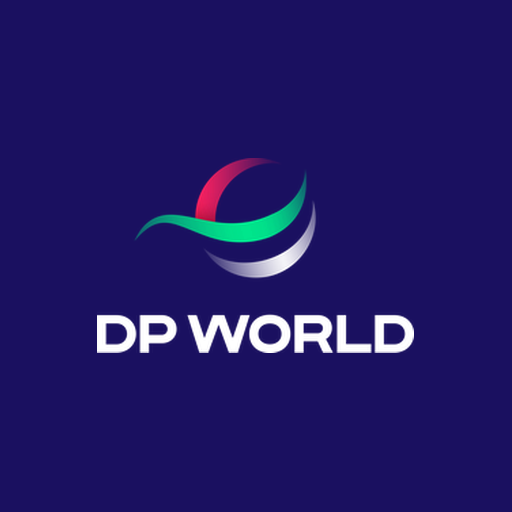
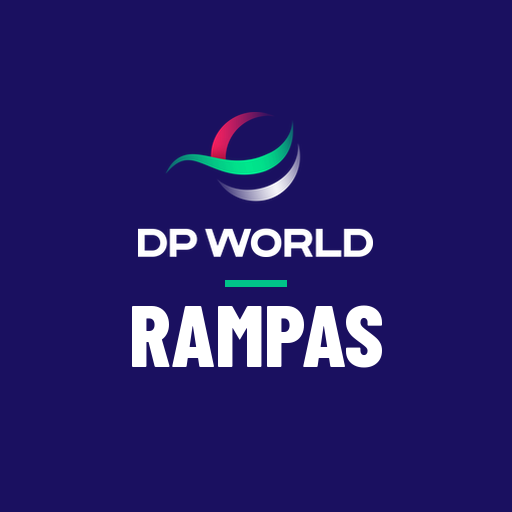
Íconos de app instalada iguales en todas (kit/pwa/generar_iconos.py)
Mismo fondo índigo, logo DP World, línea verde y nombre corto de la app en Barlow Condensed. Se sube la versión de caché del service worker para que tomen los íconos nuevos.

Claude-Session: https://claude.ai/code/session_016HvEN8KWBxrFoq9wy1oQZd

Changed region(s): [[0.25, 0.2188, 0.75, 0.5625], [0.1875, 0.5938, 0.8125, 0.7188]]

diff --git a/sw.js b/sw.js
@@ -2,7 +2,7 @@
 // Permite instalar la app y abrirla sin conexión. La app se pide primero a la red (siempre la versión publicada);
 // la copia guardada solo se usa sin conexión. Supabase nunca se guarda: los datos van siempre al servidor.
 // Al publicar un cambio grande, sube la versión de CACHE.
-const CACHE = 'rampas-v1';
+const CACHE = 'rampas-v2';
 const BASE = ['./', './index.html', './manifest.webmanifest', './dpw/dpw-shell.css', './dpw/dpw-shell.js', './dpw/dpw-escenas.js',
   './dpw/assets/dpworld-logo-fondo-claro.png', './dpw/pwa/icon-192.png', './dpw/pwa/icon-512.png'];
 

diff --git a/.claude/skills/linea-grafica/kit/pwa/generar_iconos.py b/.claude/skills/linea-grafica/kit/pwa/generar_iconos.py
@@ -1,0 +1,60 @@
+"""Íconos de app instalable, iguales para todas las apps DP World Panamá (skill linea-grafica).
+
+Mismo fondo índigo #1A1060, logo DP World en blanco, línea verde #00C389 y el nombre corto de la app
+en Barlow Condensed 800 mayúsculas. Todo dentro de la zona segura de los íconos «maskable».
+
+Uso:  python3 generar_iconos.py "HORAS" carpeta_destino
+Genera icon-512.png, icon-192.png, apple-touch-icon.png (180) y favicon-32.png.
+"""
+import os, sys
+from PIL import Image, ImageDraw, ImageFont
+
+AQUI = os.path.dirname(os.path.abspath(__file__))
+INDIGO, VERDE, BLANCO = (26, 16, 96), (0, 195, 137), (255, 255, 255)
+
+
+def icono(nombre, lado=512):
+    im = Image.new("RGBA", (lado, lado), INDIGO + (255,))
+    d = ImageDraw.Draw(im)
+    logo = Image.open(os.path.join(AQUI, "..", "assets", "dpworld-logo-fondo-oscuro.png")).convert("RGBA")
+    ancho = int(lado * 0.46)
+    logo = logo.resize((ancho, int(logo.height * ancho / logo.width)), Image.LANCZOS)
+    y_logo = int(lado * 0.22)
+    im.alpha_composite(logo, ((lado - ancho) // 2, y_logo))
+    # línea verde bajo el logo
+    y_lin = y_logo + logo.height + int(lado * 0.045)
+    d.rectangle([(lado - lado * 0.12) / 2, y_lin, (lado + lado * 0.12) / 2, y_lin + max(2, lado * 0.012)], fill=VERDE)
+    # nombre corto: el tamaño se ajusta para no salir de la zona segura (72 % del ancho)
+    fuente_ruta = os.path.join(AQUI, "barlow-condensed-800.woff")
+    t = int(lado * 0.17)
+    while True:
+        f = ImageFont.truetype(fuente_ruta, t)
+        caja = d.textbbox((0, 0), nombre, font=f)
+        if caja[2] - caja[0] <= lado * 0.72 or t < 8:
+            break
+        t -= 2
+    w = caja[2] - caja[0]
+    d.text(((lado - w) / 2 - caja[0], y_lin + int(lado * 0.05) - caja[1]), nombre, font=f, fill=BLANCO)
+    return im
+
+
+def generar(nombre, destino):
+    os.makedirs(destino, exist_ok=True)
+    grande = icono(nombre.upper(), 512)
+    grande.convert("RGB").save(os.path.join(destino, "icon-512.png"))
+    for archivo, lado in (("icon-192.png", 192), ("apple-touch-icon.png", 180)):
+        icono(nombre.upper(), lado).convert("RGB").save(os.path.join(destino, archivo))
+    # favicon: solo el fondo índigo y la línea verde con la inicial, legible a 32 px
+    fav = Image.new("RGB", (32, 32), INDIGO)
+    d = ImageDraw.Draw(fav)
+    f = ImageFont.truetype(os.path.join(AQUI, "barlow-condensed-800.woff"), 24)
+    c = d.textbbox((0, 0), nombre[0].upper(), font=f)
+    d.text(((32 - (c[2] - c[0])) / 2 - c[0], 3 - c[1] + 2), nombre[0].upper(), font=f, fill=BLANCO)
+    d.rectangle([9, 27, 23, 28], fill=VERDE)
+    fav.save(os.path.join(destino, "favicon-32.png"))
+
+
+if __name__ == "__main__":
+    if len(sys.argv) != 3:
+        sys.exit(__doc__)
+    generar(sys.argv[1], sys.argv[2])

diff --git a/.claude/skills/linea-grafica/SKILL.md b/.claude/skills/linea-grafica/SKILL.md
@@ -17,7 +17,7 @@ El kit está en `kit/` junto a este archivo:
 | `dpw-mapa.js` | Escena `mapa` (Panamá y rutas a 14 puertos). Solo la cargan las apps que la usan (35 KB). |
 | `plantilla.html` | Ejemplo completo y vista previa: `plantilla.html?escena=patio`, `&login=0`, `&tema=light`. |
 | `assets/` | Logos para fondo claro y oscuro. |
-| `pwa/` | `sw.js` y `manifest.webmanifest` de partida, íconos de la app (192, 512, Apple) y favicon. |
+| `pwa/` | `sw.js` y `manifest.webmanifest` de partida y `generar_iconos.py`, que crea los íconos de la app instalada (512, 192, Apple y favicon). |
 
 En cada app, el kit se copia a una carpeta `dpw/` servida junto al `index.html` (en Next.js: `public/dpw/` para los scripts y logos, y `src/app/dpw-shell.css` importado en `layout.tsx`; la cinta y el menú van como componentes React con las mismas clases, ver `alertas-calidad-app/src/components/AppHeader.tsx` y `Portada.tsx`). Si se cambia el kit, se cambia aquí en HubApp y se vuelve a copiar a cada repo; no se edita la copia de una sola app.
 
@@ -29,6 +29,7 @@ En cada app, el kit se copia a una carpeta `dpw/` servida junto al `index.html` 
 4. **Navegación en el menú desplegable.** Toda sección de la app va como fila del menú lateral (botón de tres rayas a la izquierda de la cinta). Las vistas especiales (Insights, Vista TV, Reportes, Configuración) también. La cinta solo lleva Instalar, Claro/Oscuro, el rol y Salir.
 5. **Tema claro y oscuro en todas**, con el botón de texto de la cinta (`Claro` / `Oscuro`, muestra a cuál cambia). Se guarda en `localStorage` con la clave común `dpw_tema` y vive en `<html data-theme="light|dark">`. Cada app elige su tema por defecto (Cotizador, Alertas y Control de Horas: claro; Inspección y Hub: oscuro). Las vistas de TV o piso de operación pueden quedarse oscuras, y la vista previa de documentos sigue siendo papel blanco.
 6. **Botón Instalar en todas**: en la cinta y como píldora en el login. Aparece solo cuando el navegador permite instalar; en iPhone explica el paso manual. Cada app lleva `manifest.webmanifest`, `sw.js` y los íconos de `kit/pwa/`.
+   **Ícono de la app instalada igual en todas**: fondo índigo `#1A1060`, logo DP World en blanco, línea verde `#00C389` y el nombre corto de la app en Barlow Condensed 800 (HORAS, RAMPAS, COTIZADOR, ALERTAS, PORTAL, LAST MILE). Se genera con `python3 kit/pwa/generar_iconos.py "NOMBRE" carpeta`; no se dibujan íconos a mano.
 7. **Tipografía y color**: Barlow (cuerpo) y Barlow Condensed 700–800 en mayúsculas (títulos, etiquetas, botones). Índigo `#1A1060` (hover `#2A1F8F`), verde `#00C389` para acentos, ámbar `#f5a20b` advertencia, rojo `#E8003D` error. Fondo oscuro `#0d0b28`, superficies `#16143d` / `#1e1c50`; en claro, fondo `#F2F3F8` y tarjetas blancas.
 
 ## Escenas por app
